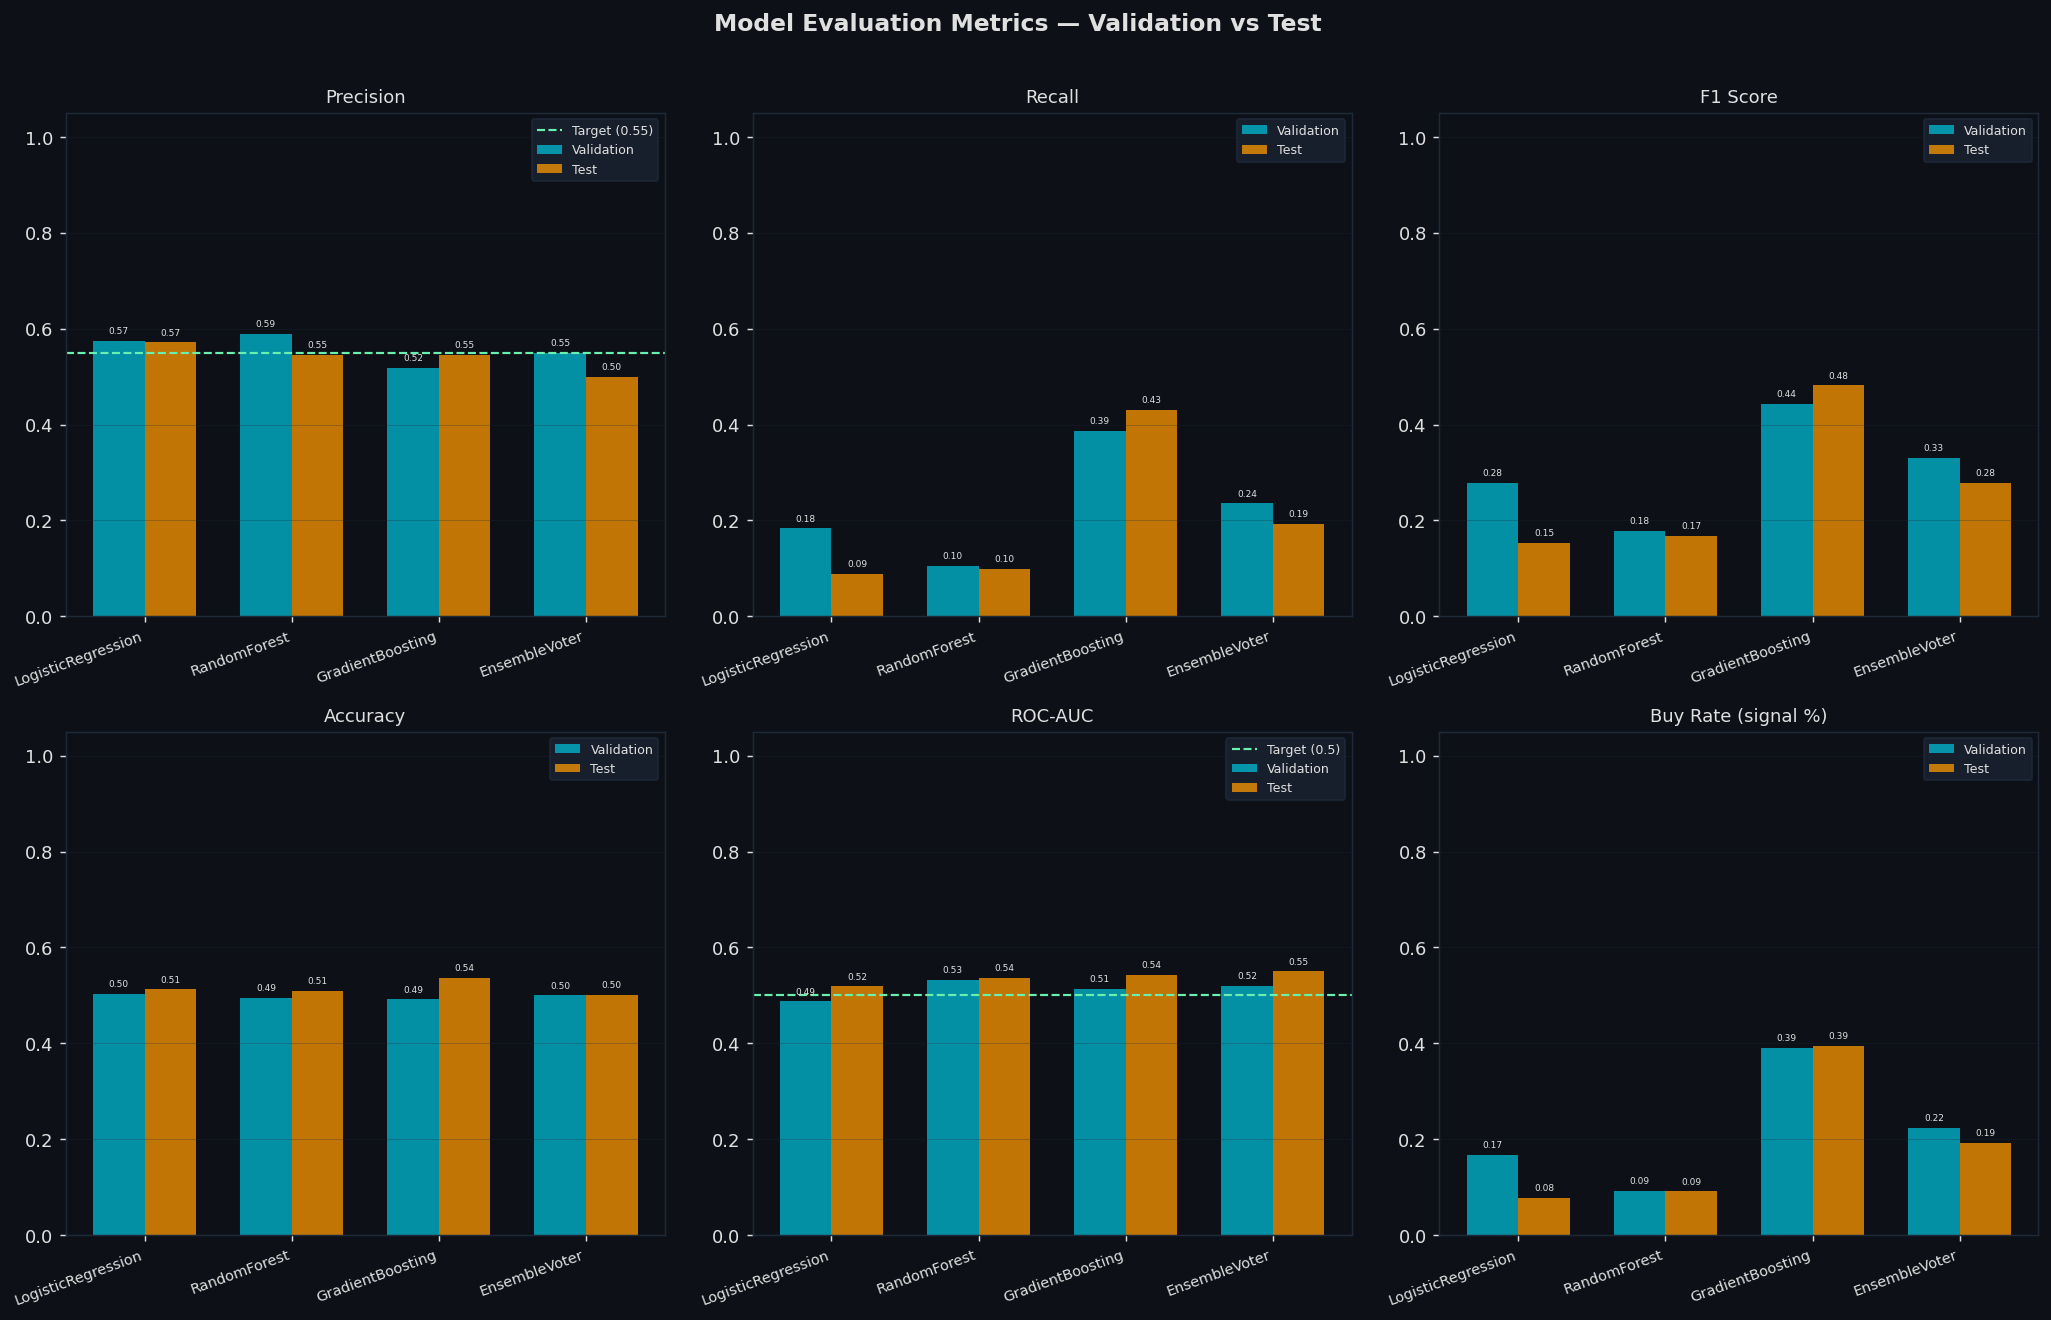
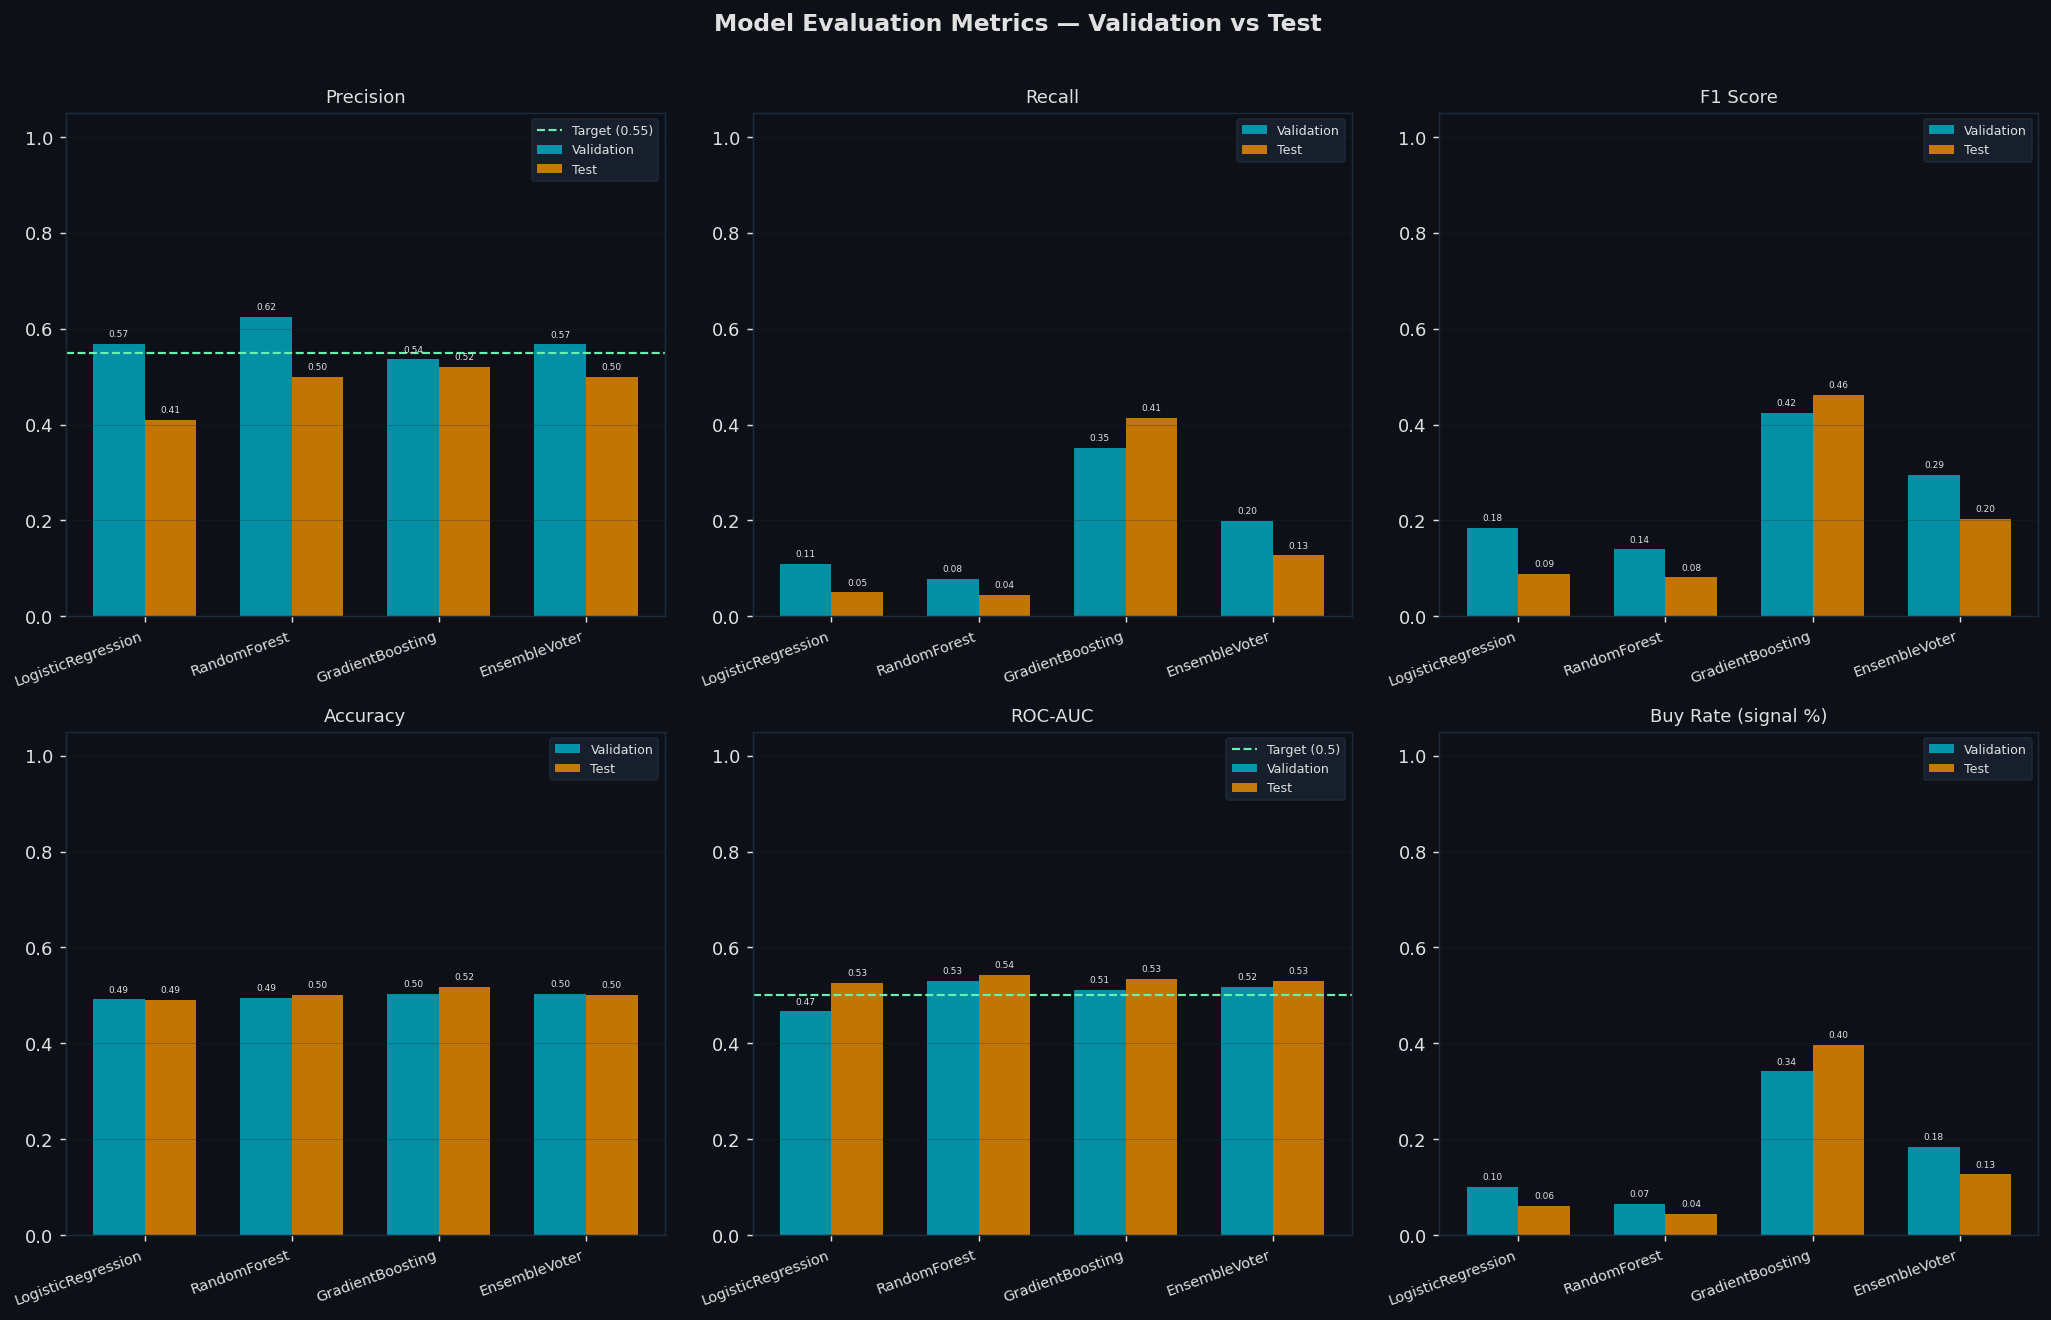
Improve 2025 returns: replace sp500/macro_pressure with ret_lag3/roll_win10, raise SIGNAL_THRESHOLD to 0.5%

diff --git a/btc_signal_pipeline.py b/btc_signal_pipeline.py
@@ -88,10 +88,11 @@ if not FRED_API_KEY:
 
 START_DATE      = "2020-01-01"
 END_DATE        = "2025-12-31"  # Full year 2025 data (test period)
-SIGNAL_THRESHOLD = 0.00          # 0% threshold: any positive 1-day return = Buy
-PROBA_CUTOFF    = 0.55           # BTC signal probability cutoff (0.55 = conservative, fewer but higher-quality trades)
-ETH_PROBA_CUTOFF = 0.63          # ETH cutoff is HIGHER — filter out weak ETH signals  
-                                  # (ETH is more volatile, so we require more confidence)
+SIGNAL_THRESHOLD = 0.005         # 0.5% threshold: predict days with meaningful positive returns
+                                  # Changed from 0%: at 0% the model caught noisy +0.1% days,
+                                  # accumulated fees, and ended up negative. 0.5% = real buy signals.
+PROBA_CUTOFF    = 0.55           # BTC signal probability cutoff
+ETH_PROBA_CUTOFF = 0.63          # ETH cutoff is HIGHER — filter out weak ETH signals
 OUTPUT_DIR      = "."            # where to save plots
 
 # ─────────────────────────────────────────────────────────────────────────────
@@ -101,16 +102,15 @@ OUTPUT_DIR      = "."            # where to save plots
 # ─────────────────────────────────────────────────────────────────────────────
 CORE_FEATURES = [
     "trend_score",      # EMA crossover + MACD histogram (asset-specific trend composite)
-    "macro_pressure",   # Fed Rate + Bond Yield change (SHARED - same for both)
-    "rsi",              # RSI-14 overbought/oversold (asset-specific momentum oscillator)
-    "fear_greed",       # Crypto Fear & Greed Index (SHARED)
-    "sp500_ret1",       # S&P 500 return (SHARED - macro risk-on/off)
-    "adx",              # ADX trend strength (asset-specific)
-    "gtrends_momentum", # Search momentum: 3d SMA / 7d SMA (asset-specific)
-    "ma_ratio",         # Short/Long term trend regime (MA20 / MA200)
+    "rsi",              # RSI-14 overbought/oversold (asset-specific momentum oscillator) — #1 by importance
+    "ma_ratio",         # Short/Long term trend regime (MA20 / MA200) — #3 by importance
+    "fear_greed",       # Crypto Fear & Greed Index (SHARED) — #4 sentiment signal
     "vol_ratio",        # Volume vs 5-day avg — confirms trend conviction (volume surge = real move)
-    # bb_pct removed: ~0.65-0.75 correlation with RSI; RSI preferred for interpretability.
-    # L1 Logistic Regression would have zeroed it out. ma_ratio + trend_score cover regime info.
+    "gtrends_momentum", # Search momentum: 3d SMA / 7d SMA (asset-specific, lagged 1 day)
+    "adx",              # ADX trend strength (asset-specific)
+    "ret_lag3",         # 3-day trailing return — medium-term momentum signal (replaces sp500_ret1)
+    "roll_win10",       # 10-day win rate: % of last 10 days that closed up (trend consistency filter)
+    #                     replaces macro_pressure (Fed/yield change) — lowest importance feature
 ]
 
 # 4-State Portfolio Allocation Table (based on combined BTC + ETH signals)
